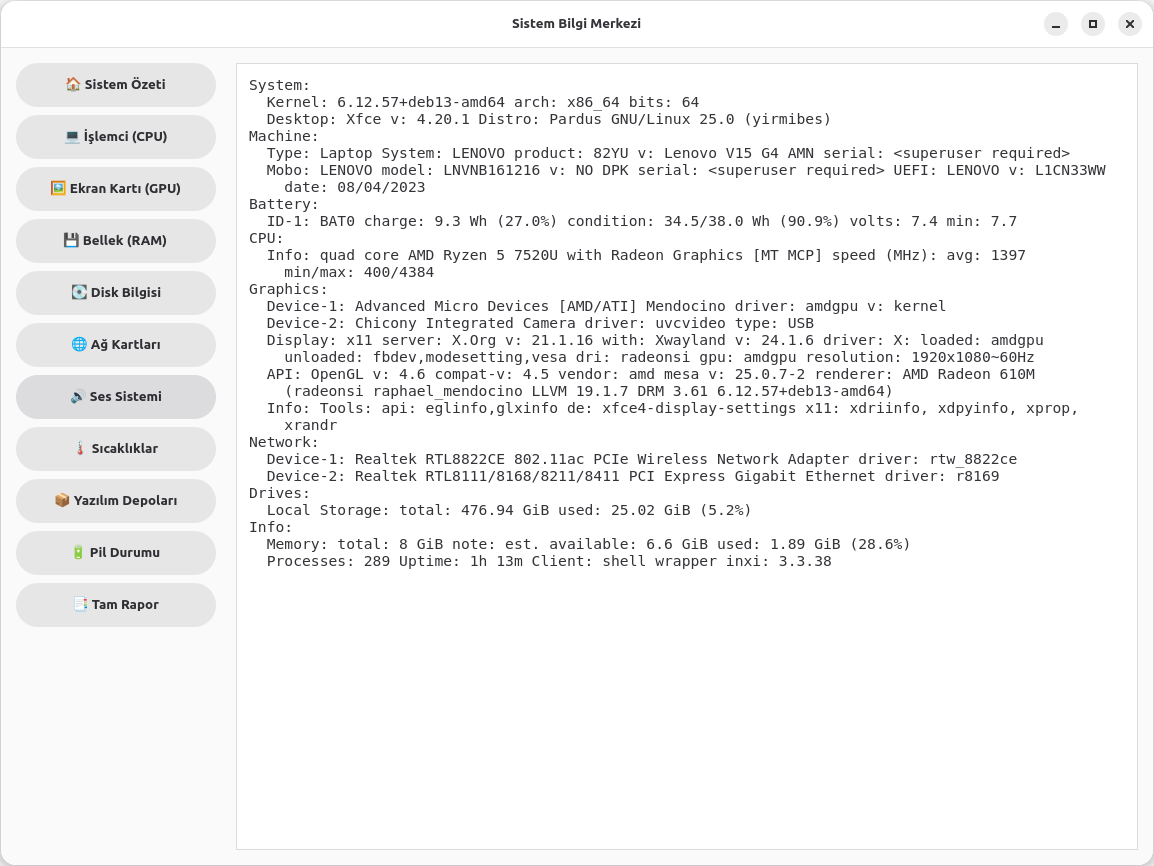
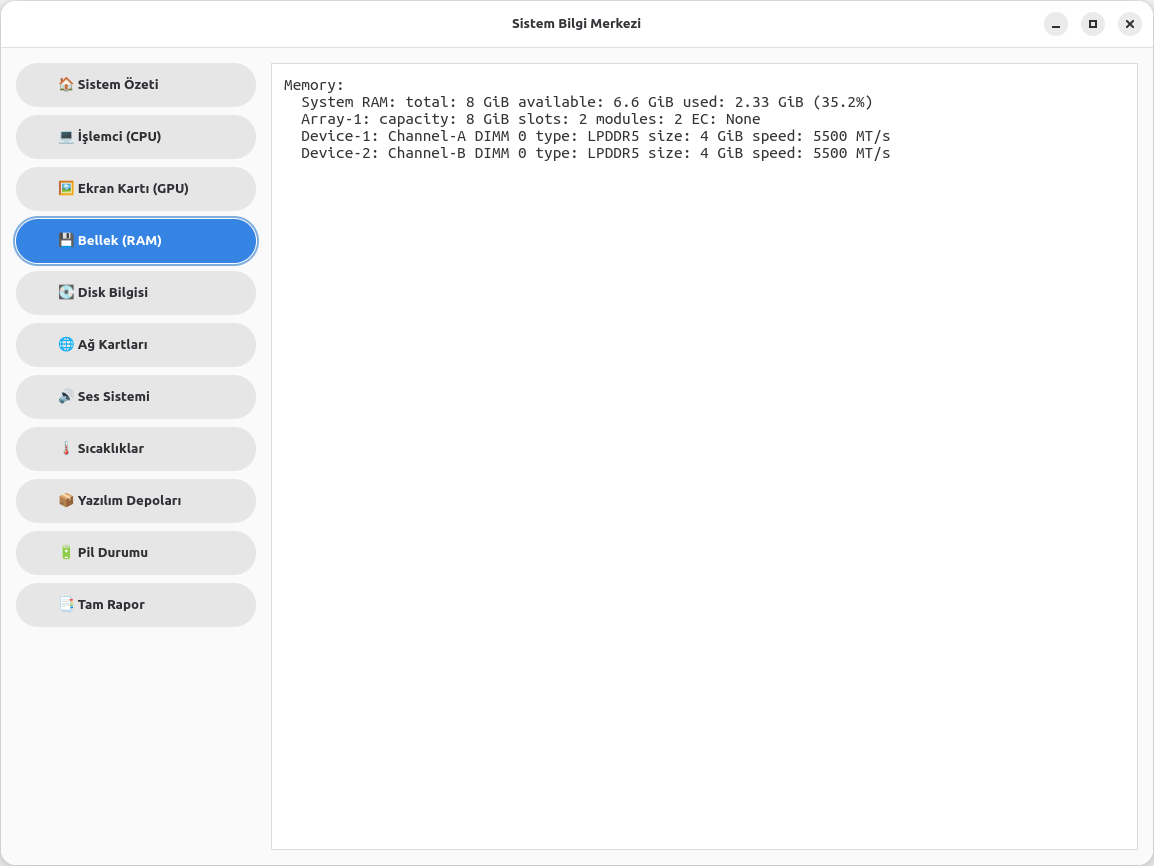
Add files via upload

diff --git a/build_pkg/usr/share/inxigui/inxigui.py b/build_pkg/usr/share/inxigui/inxigui.py
@@ -10,6 +10,7 @@ from gi.repository import Gtk, Adw, Gdk, GLib
 class InxiSadePanel(Adw.Application):
     def __init__(self):
         super().__init__(application_id='com.debian.inxi.sade.final')
+        self.aktif_buton = None 
 
     def do_activate(self):
         self.win = Adw.ApplicationWindow(application=self)
@@ -17,9 +18,16 @@ class InxiSadePanel(Adw.Application):
 
         # Ekran boyutuna göre pencere ölçeklendirme
         display = Gdk.Display.get_default()
-        monitor = display.get_monitors().get_item(0)
-        geo = monitor.get_geometry()
-        self.win.set_default_size(int(geo.width * 0.60), int(geo.height * 0.8))
+        monitors = display.get_monitors()
+        if monitors.get_n_items() > 0:
+            monitor = monitors.get_item(0)
+            geo = monitor.get_geometry()
+            width = int(geo.width * 0.60)
+            height = int(geo.height * 0.8)
+        else:
+            width, height = 900, 700
+            
+        self.win.set_default_size(width, height)
 
         ana_kutu = Gtk.Box(orientation=Gtk.Orientation.VERTICAL)
         self.win.set_content(ana_kutu)
@@ -34,14 +42,13 @@ class InxiSadePanel(Adw.Application):
         paned = Gtk.Box(orientation=Gtk.Orientation.HORIZONTAL)
         ana_kutu.append(paned)
 
-        # SOL MENÜ (Butonlar)
+        # SOL MENÜ
         self.sol_menu = Gtk.Box(orientation=Gtk.Orientation.VERTICAL, spacing=8)
-        self.sol_menu.set_size_request(220, -1)
-        
-        self.sol_menu.set_margin_top(15)
-        self.sol_menu.set_margin_bottom(15)
+        self.sol_menu.set_size_request(240, -1)
         self.sol_menu.set_margin_start(15)
         self.sol_menu.set_margin_end(15)
+        self.sol_menu.set_margin_top(15)
+        self.sol_menu.set_margin_bottom(15)
         
         paned.append(self.sol_menu)
 
@@ -55,24 +62,29 @@ class InxiSadePanel(Adw.Application):
         ]
 
         for isim, param in kategoriler:
+            # Butonu oluştur
             btn = Gtk.Button(label=isim)
-            btn.add_css_class("pill")
+            btn.add_css_class("pill") # Yuvarlak stil
             
-            # Buton metnini sola yasla
+            # Metni sola yasla
             label = btn.get_child()
             if isinstance(label, Gtk.Label):
-                label.set_xalign(0)  # 0: Sol, 0.5: Orta, 1: Sağ
-                label.set_margin_start(10) # Metnin butona çok yapışmaması için küçük boşluk
+                label.set_xalign(0)
+                label.set_margin_start(10)
             
-            btn.connect('clicked', self.on_button_clicked, param)
+            btn.param = param
+            btn.connect('clicked', self.on_button_clicked)
             self.sol_menu.append(btn)
+            
+            # Başlangıçta "Sistem Özeti" butonunu seçili yap
+            if param == "-b":
+                self.vurgula_butonu(btn)
 
         # SAĞ PANEL (Metin Çıktısı)
         vbox_sag = Gtk.Box(orientation=Gtk.Orientation.VERTICAL)
         vbox_sag.set_hexpand(True)
         vbox_sag.set_margin_top(15)
         vbox_sag.set_margin_bottom(15)
-        vbox_sag.set_margin_start(5)
         vbox_sag.set_margin_end(15)
         paned.append(vbox_sag)
 
@@ -83,40 +95,54 @@ class InxiSadePanel(Adw.Application):
         self.metin_alani = Gtk.TextView(editable=False, monospace=True)
         self.metin_alani.set_left_margin(12)
         self.metin_alani.set_top_margin(12)
+        self.metin_alani.set_wrap_mode(Gtk.WrapMode.WORD_CHAR) # Uzun satırları böl
         
         scrolled.set_child(self.metin_alani)
         vbox_sag.append(scrolled)
 
         self.win.present()
-        # Başlangıçta sistem özetini getir
-        self.on_button_clicked(None, "-b")
+        self.islem_baslat("-b")
 
-    def on_button_clicked(self, btn, param):
+    def vurgula_butonu(self, buton):
+        """Tıklanan butonu mavi yapar ve eski butonu normale döndürür."""
+        if self.aktif_buton:
+            # Önceki butonun vurgusunu kaldır
+            self.aktif_buton.remove_css_class("suggested-action")
+        
+        # Yeni butonu vurgula
+        self.aktif_buton = buton
+        self.aktif_buton.add_css_class("suggested-action")
+
+    def on_button_clicked(self, btn):
+        self.vurgula_butonu(btn)
+        self.islem_baslat(btn.param)
+
+    def islem_baslat(self, param):
         self.spinner.start()
-        self.sol_menu.set_sensitive(False)
+        # Veri çekilirken butonlara tekrar basılmasını engellemek isteyebilirsiniz
+        # Ancak kullanıcı deneyimi için menüyü kapatmak yerine sadece spinner göstermek daha iyidir
         
         thread = threading.Thread(target=self.arkaplan_islem, args=(param,))
         thread.daemon = True
         thread.start()
 
     def arkaplan_islem(self, param):
+        # Türkçe karakter desteği ve renksiz çıktı (-c 0)
         env = os.environ.copy()
         env["LC_ALL"] = "tr_TR.UTF-8"
         env["LANG"] = "tr_TR.UTF-8"
         try:
             res = subprocess.run(['inxi', param, '-c', '0'], capture_output=True, text=True, env=env)
-            cikti = res.stdout if res.stdout else "Veri bulunamadı."
+            cikti = res.stdout if res.stdout else "Veri bulunamadı veya bu donanım mevcut değil."
         except Exception as e:
-            cikti = f"Hata: {str(e)}"
+            cikti = f"Hata: inxi yüklü mü? \nDetay: {str(e)}"
         
         GLib.idle_add(self.metni_yaz, cikti)
 
     def metni_yaz(self, metin):
         buffer = self.metin_alani.get_buffer()
         buffer.set_text(metin)
-        
         self.spinner.stop()
-        self.sol_menu.set_sensitive(True)
         return False
 
 if __name__ == "__main__":

diff --git a/inxigui.py b/inxigui.py
@@ -10,6 +10,7 @@ from gi.repository import Gtk, Adw, Gdk, GLib
 class InxiSadePanel(Adw.Application):
     def __init__(self):
         super().__init__(application_id='com.debian.inxi.sade.final')
+        self.aktif_buton = None 
 
     def do_activate(self):
         self.win = Adw.ApplicationWindow(application=self)
@@ -17,9 +18,16 @@ class InxiSadePanel(Adw.Application):
 
         # Ekran boyutuna göre pencere ölçeklendirme
         display = Gdk.Display.get_default()
-        monitor = display.get_monitors().get_item(0)
-        geo = monitor.get_geometry()
-        self.win.set_default_size(int(geo.width * 0.60), int(geo.height * 0.8))
+        monitors = display.get_monitors()
+        if monitors.get_n_items() > 0:
+            monitor = monitors.get_item(0)
+            geo = monitor.get_geometry()
+            width = int(geo.width * 0.60)
+            height = int(geo.height * 0.8)
+        else:
+            width, height = 900, 700
+            
+        self.win.set_default_size(width, height)
 
         ana_kutu = Gtk.Box(orientation=Gtk.Orientation.VERTICAL)
         self.win.set_content(ana_kutu)
@@ -34,14 +42,13 @@ class InxiSadePanel(Adw.Application):
         paned = Gtk.Box(orientation=Gtk.Orientation.HORIZONTAL)
         ana_kutu.append(paned)
 
-        # SOL MENÜ (Butonlar)
+        # SOL MENÜ
         self.sol_menu = Gtk.Box(orientation=Gtk.Orientation.VERTICAL, spacing=8)
-        self.sol_menu.set_size_request(220, -1)
-        
-        self.sol_menu.set_margin_top(15)
-        self.sol_menu.set_margin_bottom(15)
+        self.sol_menu.set_size_request(240, -1)
         self.sol_menu.set_margin_start(15)
         self.sol_menu.set_margin_end(15)
+        self.sol_menu.set_margin_top(15)
+        self.sol_menu.set_margin_bottom(15)
         
         paned.append(self.sol_menu)
 
@@ -55,24 +62,29 @@ class InxiSadePanel(Adw.Application):
         ]
 
         for isim, param in kategoriler:
+            # Butonu oluştur
             btn = Gtk.Button(label=isim)
-            btn.add_css_class("pill")
+            btn.add_css_class("pill") # Yuvarlak stil
             
-            # Buton metnini sola yasla
+            # Metni sola yasla
             label = btn.get_child()
             if isinstance(label, Gtk.Label):
-                label.set_xalign(0)  # 0: Sol, 0.5: Orta, 1: Sağ
-                label.set_margin_start(10) # Metnin butona çok yapışmaması için küçük boşluk
+                label.set_xalign(0)
+                label.set_margin_start(10)
             
-            btn.connect('clicked', self.on_button_clicked, param)
+            btn.param = param
+            btn.connect('clicked', self.on_button_clicked)
             self.sol_menu.append(btn)
+            
+            # Başlangıçta "Sistem Özeti" butonunu seçili yap
+            if param == "-b":
+                self.vurgula_butonu(btn)
 
         # SAĞ PANEL (Metin Çıktısı)
         vbox_sag = Gtk.Box(orientation=Gtk.Orientation.VERTICAL)
         vbox_sag.set_hexpand(True)
         vbox_sag.set_margin_top(15)
         vbox_sag.set_margin_bottom(15)
-        vbox_sag.set_margin_start(5)
         vbox_sag.set_margin_end(15)
         paned.append(vbox_sag)
 
@@ -83,40 +95,54 @@ class InxiSadePanel(Adw.Application):
         self.metin_alani = Gtk.TextView(editable=False, monospace=True)
         self.metin_alani.set_left_margin(12)
         self.metin_alani.set_top_margin(12)
+        self.metin_alani.set_wrap_mode(Gtk.WrapMode.WORD_CHAR) # Uzun satırları böl
         
         scrolled.set_child(self.metin_alani)
         vbox_sag.append(scrolled)
 
         self.win.present()
-        # Başlangıçta sistem özetini getir
-        self.on_button_clicked(None, "-b")
+        self.islem_baslat("-b")
 
-    def on_button_clicked(self, btn, param):
+    def vurgula_butonu(self, buton):
+        """Tıklanan butonu mavi yapar ve eski butonu normale döndürür."""
+        if self.aktif_buton:
+            # Önceki butonun vurgusunu kaldır
+            self.aktif_buton.remove_css_class("suggested-action")
+        
+        # Yeni butonu vurgula
+        self.aktif_buton = buton
+        self.aktif_buton.add_css_class("suggested-action")
+
+    def on_button_clicked(self, btn):
+        self.vurgula_butonu(btn)
+        self.islem_baslat(btn.param)
+
+    def islem_baslat(self, param):
         self.spinner.start()
-        self.sol_menu.set_sensitive(False)
+        # Veri çekilirken butonlara tekrar basılmasını engellemek isteyebilirsiniz
+        # Ancak kullanıcı deneyimi için menüyü kapatmak yerine sadece spinner göstermek daha iyidir
         
         thread = threading.Thread(target=self.arkaplan_islem, args=(param,))
         thread.daemon = True
         thread.start()
 
     def arkaplan_islem(self, param):
+        # Türkçe karakter desteği ve renksiz çıktı (-c 0)
         env = os.environ.copy()
         env["LC_ALL"] = "tr_TR.UTF-8"
         env["LANG"] = "tr_TR.UTF-8"
         try:
             res = subprocess.run(['inxi', param, '-c', '0'], capture_output=True, text=True, env=env)
-            cikti = res.stdout if res.stdout else "Veri bulunamadı."
+            cikti = res.stdout if res.stdout else "Veri bulunamadı veya bu donanım mevcut değil."
         except Exception as e:
-            cikti = f"Hata: {str(e)}"
+            cikti = f"Hata: inxi yüklü mü? \nDetay: {str(e)}"
         
         GLib.idle_add(self.metni_yaz, cikti)
 
     def metni_yaz(self, metin):
         buffer = self.metin_alani.get_buffer()
         buffer.set_text(metin)
-        
         self.spinner.stop()
-        self.sol_menu.set_sensitive(True)
         return False
 
 if __name__ == "__main__":
